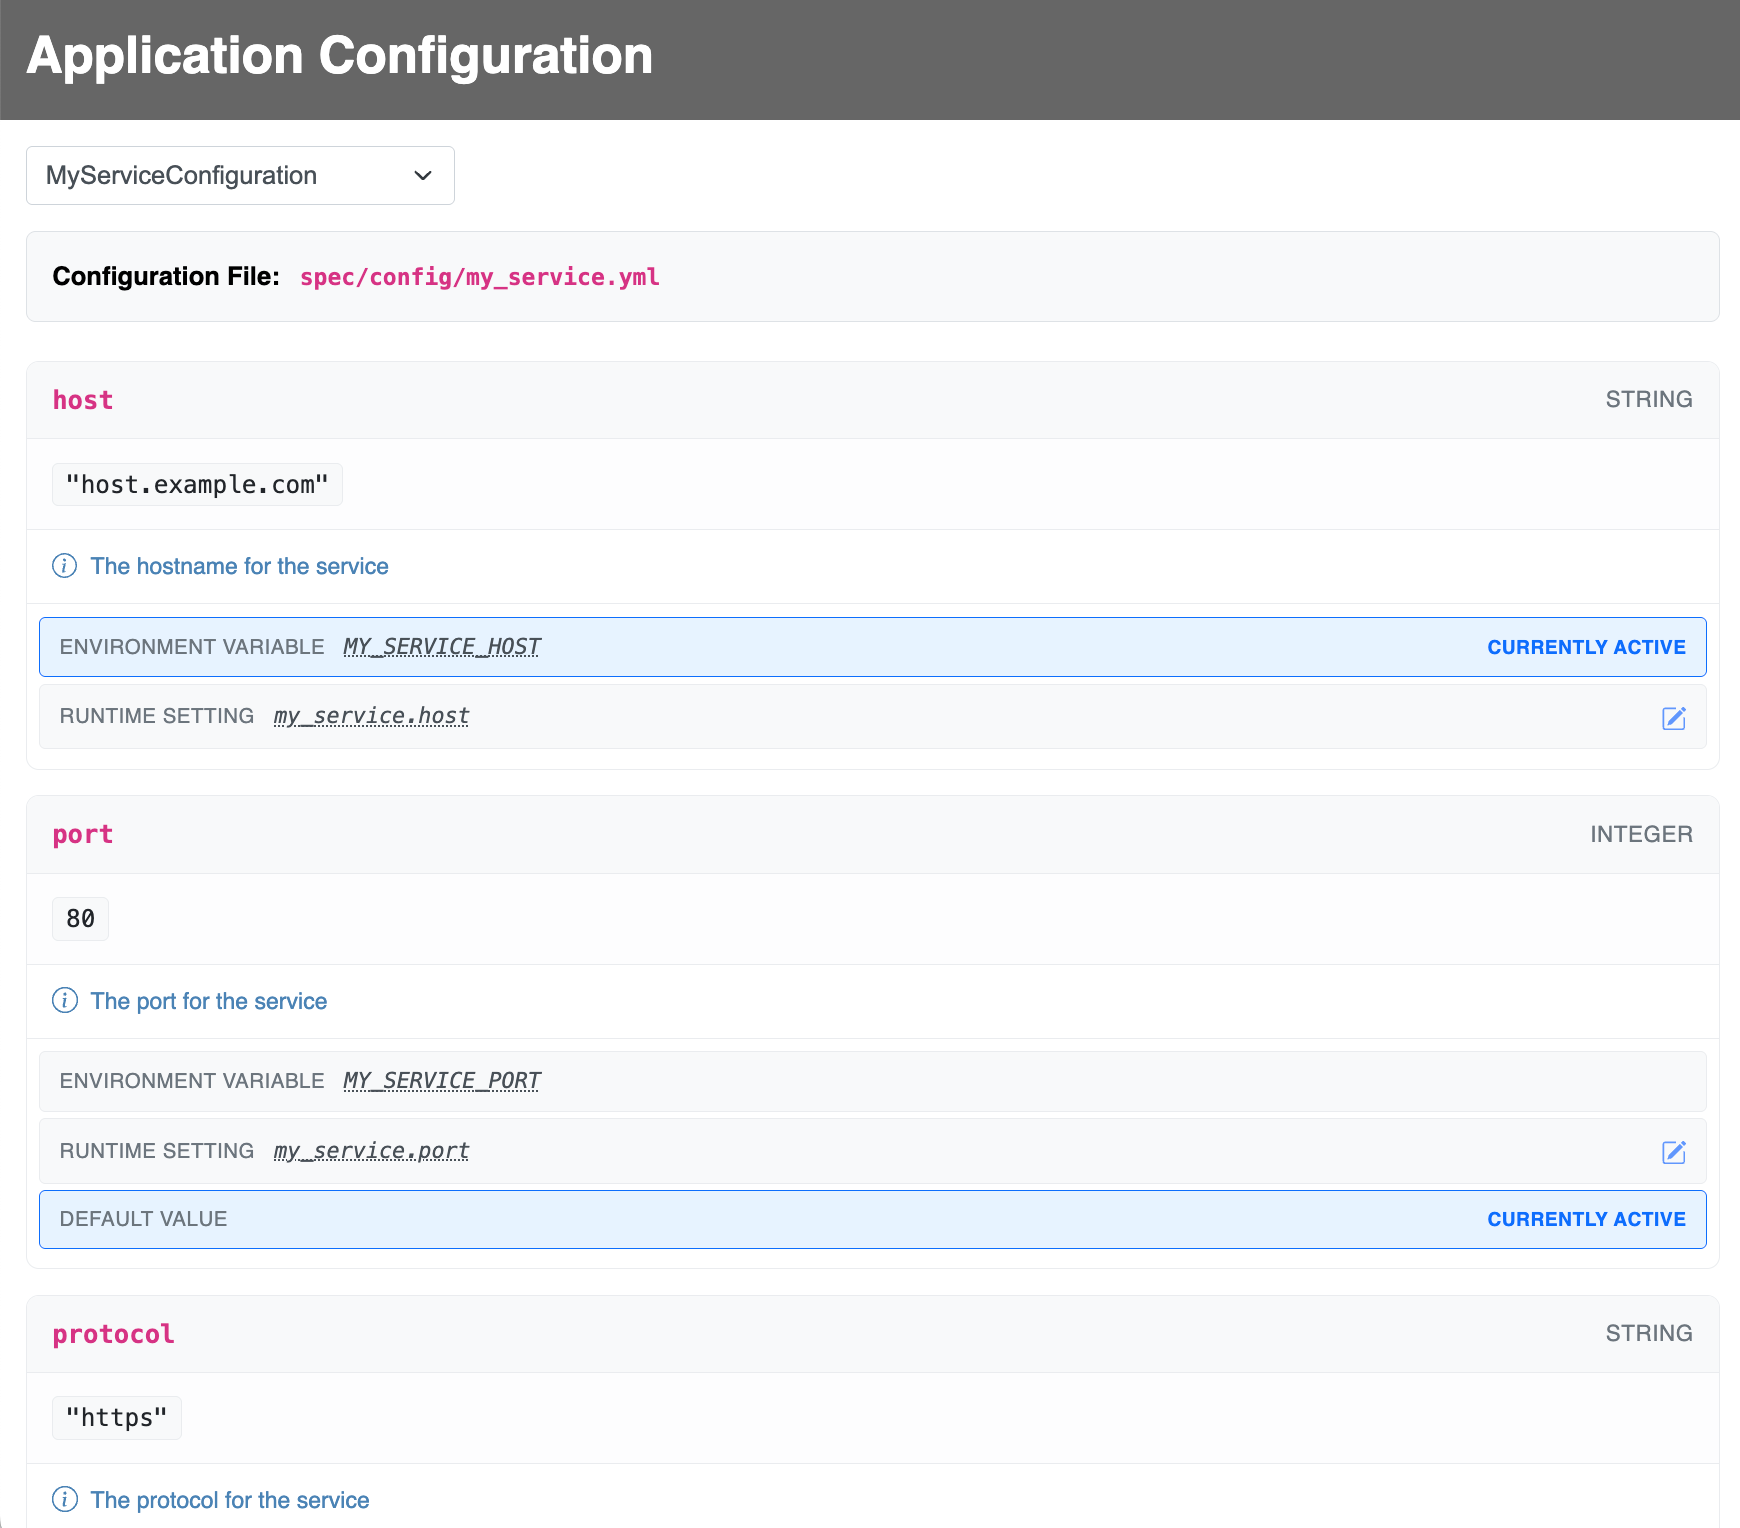
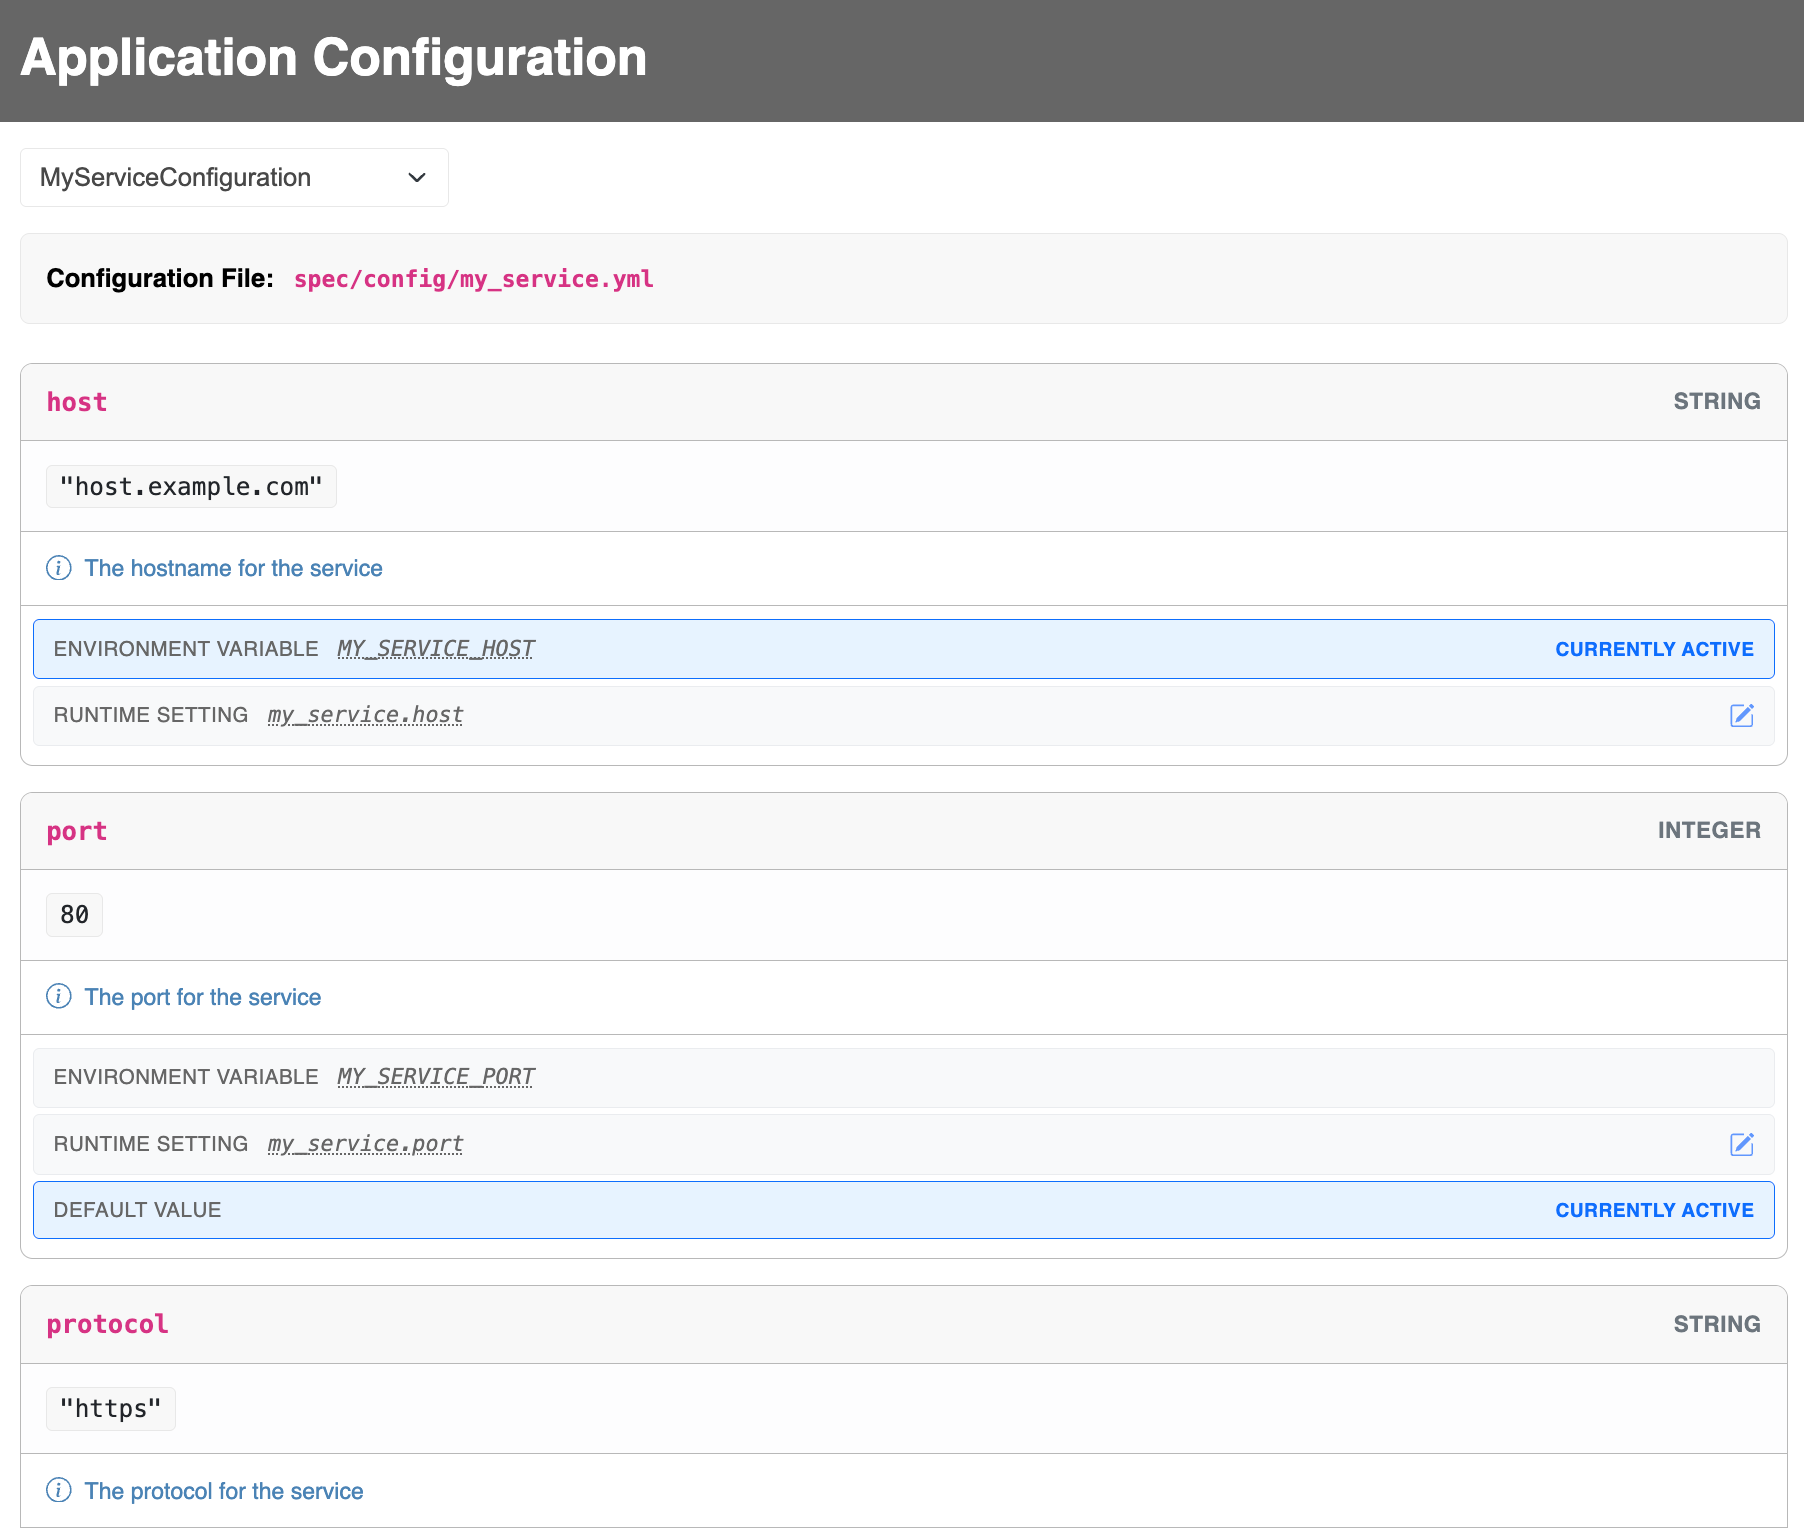
Include css in application view

diff --git a/app/application.css b/app/application.css
@@ -74,7 +74,7 @@
 
 .ultra-settings-field-type {
   font-size: 0.875rem;
-  font-weight: 500;
+  font-weight: 600;
   color: var(--type-color);
   text-transform: uppercase;
   letter-spacing: 0.025em;
@@ -146,10 +146,7 @@
   height: 16px;
   flex-shrink: 0;
   margin-top: 0.125rem; /* Align with first line of text based on line-height */
-  background-image: var(--info-icon-svg);
-  background-size: contain;
-  background-repeat: no-repeat;
-  background-position: center;
+  color: var(--description-color);
 }
 
 /* Sources section */
@@ -217,10 +214,6 @@
 .ultra-settings-edit-icon {
   width: 16px;
   height: 16px;
-  background-image: var(--edit-icon-svg);
-  background-size: contain;
-  background-repeat: no-repeat;
-  background-position: center;
 }
 
 .ultra-settings-select {

diff --git a/spec/ultra_settings/application_vew_spec.rb b/spec/ultra_settings/application_vew_spec.rb
@@ -5,25 +5,39 @@ require_relative "../spec_helper"
 describe UltraSettings::ApplicationView do
   it "renders the configuration as an HTML application" do
     html = UltraSettings::ApplicationView.new.render
-    expect(html.strip).to match(/<select class="ultra-settings-select" size="1" id="config-selector">.*<\/select>/m)
-    expect(html.strip).to match(/ultra-settings-fields/m)
-    expect(html.strip).to match(/<script>.*<\/script>/m)
+    expect(html).to match(/<select class="ultra-settings-select" size="1" id="config-selector">.*<\/select>/m)
+    expect(html).to match(/ultra-settings-fields/m)
+    expect(html).to match(/<script>.*<\/script>/m)
+  end
+
+  it "renders the configuration CSS" do
+    html = UltraSettings::ApplicationView.new.render
+    expect(html).to match(/<style type="text\/css">.*<\/style>/m)
   end
 
   it "can set the select class" do
     html = UltraSettings::ApplicationView.new.render(select_class: "form-control")
-    expect(html.strip).to match(/<select class="form-control" size="1" id="config-selector">.*<\/select>/m)
+    expect(html).to match(/<select class="form-control" size="1" id="config-selector">.*<\/select>/m)
   end
 
   it "maintains backward compatibility with table class parameter" do
     html = UltraSettings::ApplicationView.new.render(table_class: "table table-striped")
     # The table_class parameter is still accepted but doesn't affect the new card layout
-    expect(html.strip).to match(/ultra-settings-fields/m)
+    expect(html).to match(/ultra-settings-fields/m)
   end
 
   it "renders valid HTML", env: {TEST_STRING: "<script"} do
     html = UltraSettings::ApplicationView.new.render
-    doc = Nokogiri::HTML(html)
-    expect(doc.errors).to be_empty
+    docs = parse_with_svg(html)
+    docs.each do |doc|
+      expect(doc.errors).to be_empty
+    end
+  end
+
+  it "returns a style tag with the CSS" do
+    app_view = UltraSettings::ApplicationView.new
+    style_tag = app_view.style_tag
+    expect(style_tag).to start_with("<style type=\"text/css\">")
+    expect(style_tag).to end_with("</style>")
   end
 end

diff --git a/lib/ultra_settings/web_view.rb b/lib/ultra_settings/web_view.rb
@@ -3,15 +3,14 @@
 module UltraSettings
   # Helper class for rendering the settings information in an HTML page.
   class WebView
-    attr_reader :css
+    attr_reader :layout_css
 
     # @param color_scheme [Symbol] The color scheme to use in the UI. This can be `:light`,
     #  `:dark`, or `:system`. The default is `:light`.
     def initialize(color_scheme: :light)
-      color_scheme = (color_scheme || :light).to_sym
-      @layout_template = erb_template("layout.html.erb")
-      @layout_css = layout_css(color_scheme)
-      @css = application_css(color_scheme)
+      @color_scheme = (color_scheme || :light).to_sym
+      @layout_template = ViewHelper.erb_template("layout.html.erb")
+      @layout_css = scheme_layout_css(@color_scheme)
     end
 
     def render_settings
@@ -19,32 +18,14 @@ module UltraSettings
     end
 
     def content
-      UltraSettings::ApplicationView.new.render
+      UltraSettings::ApplicationView.new(color_scheme: @color_scheme).render
     end
 
     private
 
-    def erb_template(path)
-      ERB.new(read_app_file(path))
-    end
-
-    def read_app_file(path)
-      File.read(File.join(app_dir, path))
-    end
-
-    def app_dir
-      File.expand_path(File.join("..", "..", "app"), __dir__)
-    end
-
-    def layout_css(color_scheme)
-      vars = erb_template("layout_vars.css.erb").result(binding)
-      css = read_app_file("layout.css")
-      "#{vars}\n#{css}"
-    end
-
-    def application_css(color_scheme)
-      vars = erb_template("application_vars.css.erb").result(binding)
-      css = read_app_file("application.css")
+    def scheme_layout_css(color_scheme)
+      vars = ViewHelper.erb_template("layout_vars.css.erb").result(binding)
+      css = ViewHelper.read_app_file("layout.css")
       "#{vars}\n#{css}"
     end
   end

diff --git a/lib/ultra_settings/application_view.rb b/lib/ultra_settings/application_view.rb
@@ -13,32 +13,21 @@ module UltraSettings
   #  <h1>Application Configuration</h1>
   #  <%= UltraSettings::ApplicationView.new.render(select_class: 'form-control') %>
   class ApplicationView
-    @template = nil
+    attr_reader :css
 
-    class << self
-      def template
-        @template ||= ERB.new(read_app_file("index.html.erb"))
-      end
-
-      def javascript
-        @javascript = read_app_file("application.js")
-      end
-
-      private
-
-      def read_app_file(path)
-        File.read(File.join(app_dir, path))
-      end
-
-      def app_dir
-        File.expand_path(File.join("..", "..", "app"), __dir__)
-      end
+    def initialize(color_scheme: :light)
+      @css = application_css(color_scheme)
+      @css = @css.html_safe if @css.respond_to?(:html_safe)
     end
 
     def render(select_class: "ultra-settings-select", table_class: "")
-      html = self.class.template.result(binding)
+      html = ViewHelper.erb_template("index.html.erb").result(binding)
       html = html.html_safe if html.respond_to?(:html_safe)
       html
+    end
+
+    def style_tag
+      "<style type=\"text/css\">\n#{css}\n</style>"
     end
 
     def to_s
@@ -52,7 +41,13 @@ module UltraSettings
     end
 
     def javascript
-      self.class.javascript
+      ViewHelper.read_app_file("application.js")
+    end
+
+    def application_css(color_scheme)
+      vars = ViewHelper.erb_template("application_vars.css.erb").result(binding).strip
+      css = ViewHelper.read_app_file("application.css").strip
+      "#{vars}\n#{css}"
     end
   end
 end

diff --git a/lib/ultra_settings/configuration_view.rb b/lib/ultra_settings/configuration_view.rb
@@ -11,31 +11,13 @@ module UltraSettings
   #  <h1>Service Configuration</h1>
   #  <%= UltraSettings::ConfigurationView.new(ServiceConfiguration.instance).render %>
   class ConfigurationView
-    @template = nil
-
-    class << self
-      def template
-        @template ||= ERB.new(read_app_file("configuration.html.erb"))
-      end
-
-      private
-
-      def read_app_file(path)
-        File.read(File.join(app_dir, path))
-      end
-
-      def app_dir
-        File.expand_path(File.join("..", "..", "app"), __dir__)
-      end
-    end
-
     def initialize(configuration)
       @configuration = configuration
     end
 
     def render(table_class: "")
       configuration = @configuration
-      html = self.class.template.result(binding)
+      html = ViewHelper.erb_template("configuration.html.erb").result(binding)
       html = html.html_safe if html.respond_to?(:html_safe)
       html
     end

diff --git a/spec/ultra_settings/web_view_spec.rb b/spec/ultra_settings/web_view_spec.rb
@@ -8,11 +8,6 @@ describe UltraSettings::WebView do
     expect(app.render_settings).to be_a(String)
   end
 
-  it "renders the configuration CSS" do
-    app = UltraSettings::WebView.new
-    expect(app.css).to be_a(String)
-  end
-
   it "renders the configuration content" do
     app = UltraSettings::WebView.new
     expect(app.content).to be_a(String)
@@ -20,7 +15,9 @@ describe UltraSettings::WebView do
 
   it "renders valid HTML" do
     app = UltraSettings::WebView.new
-    doc = Nokogiri::HTML(app.content)
-    expect(doc.errors).to be_empty
+    docs = parse_with_svg(app.content)
+    docs.each do |doc|
+      expect(doc.errors).to be_empty
+    end
   end
 end

diff --git a/lib/ultra_settings/view_helper.rb b/lib/ultra_settings/view_helper.rb
@@ -1,0 +1,22 @@
+# frozen_string_literal: true
+
+module UltraSettings
+  # Base class for rendering views.
+  module ViewHelper
+    @cache = {}
+
+    class << self
+      def erb_template(path)
+        @cache["erb:#{path}"] ||= ERB.new(read_app_file(path))
+      end
+
+      def read_app_file(path)
+        @cache["file:#{path}"] ||= File.read(File.join(app_dir, path))
+      end
+
+      def app_dir
+        File.expand_path(File.join("..", "..", "app"), __dir__)
+      end
+    end
+  end
+end

diff --git a/spec/ultra_settings/configuration_view_spec.rb b/spec/ultra_settings/configuration_view_spec.rb
@@ -22,8 +22,10 @@ describe UltraSettings::ConfigurationView do
 
   it "renders valid HTML", env: {TEST_STRING: "<script"} do
     html = UltraSettings::ConfigurationView.new(TestConfiguration.instance).render
-    doc = Nokogiri::HTML(html)
-    expect(doc.errors).to be_empty
+    docs = parse_with_svg(html)
+    docs.each do |doc|
+      expect(doc.errors).to be_empty
+    end
   end
 
   describe "links to runtime settings" do

diff --git a/lib/ultra_settings.rb b/lib/ultra_settings.rb
@@ -13,6 +13,7 @@ require_relative "ultra_settings/coerce"
 require_relative "ultra_settings/config_helper"
 require_relative "ultra_settings/field"
 require_relative "ultra_settings/rack_app"
+require_relative "ultra_settings/view_helper"
 require_relative "ultra_settings/web_view"
 require_relative "ultra_settings/application_view"
 require_relative "ultra_settings/configuration_view"

diff --git a/spec/spec_helper.rb b/spec/spec_helper.rb
@@ -71,3 +71,16 @@ RSpec.configure do |config|
     end
   end
 end
+
+def parse_with_svg(html)
+  svgs = []
+  html.gsub!(/<svg[^>]*>(.*?)<\/svg>/m) do |match|
+    svgs << match
+    ""
+  end
+  docs = [Nokogiri::HTML(html)]
+  svgs.each do |svg|
+    docs << Nokogiri::XML(svg)
+  end
+  docs
+end

diff --git a/README.md b/README.md
@@ -435,6 +435,14 @@ You can also embed the view for individual configurations within your own views 
 <%= UltraSettings::ConfigurationView.new(MyServiceConfiguration.instance).render %>
 ```
 
+You'll also need to include the CSS for the configuration view on your page.
+
+```erb
+<head>
+  <%= UltraSettings::ApplicationView.new.style_tag %>
+</head>
+```
+
 ### Testing With UltraSettings
 
 When writing automated tests, you may need to override configuration settings to test different scenarios. UltraSettings provides the `UltraSettings.override!` method to temporarily change settings within a test block. Below are examples of how to override the `TestConfiguration#foo` value in a test.
